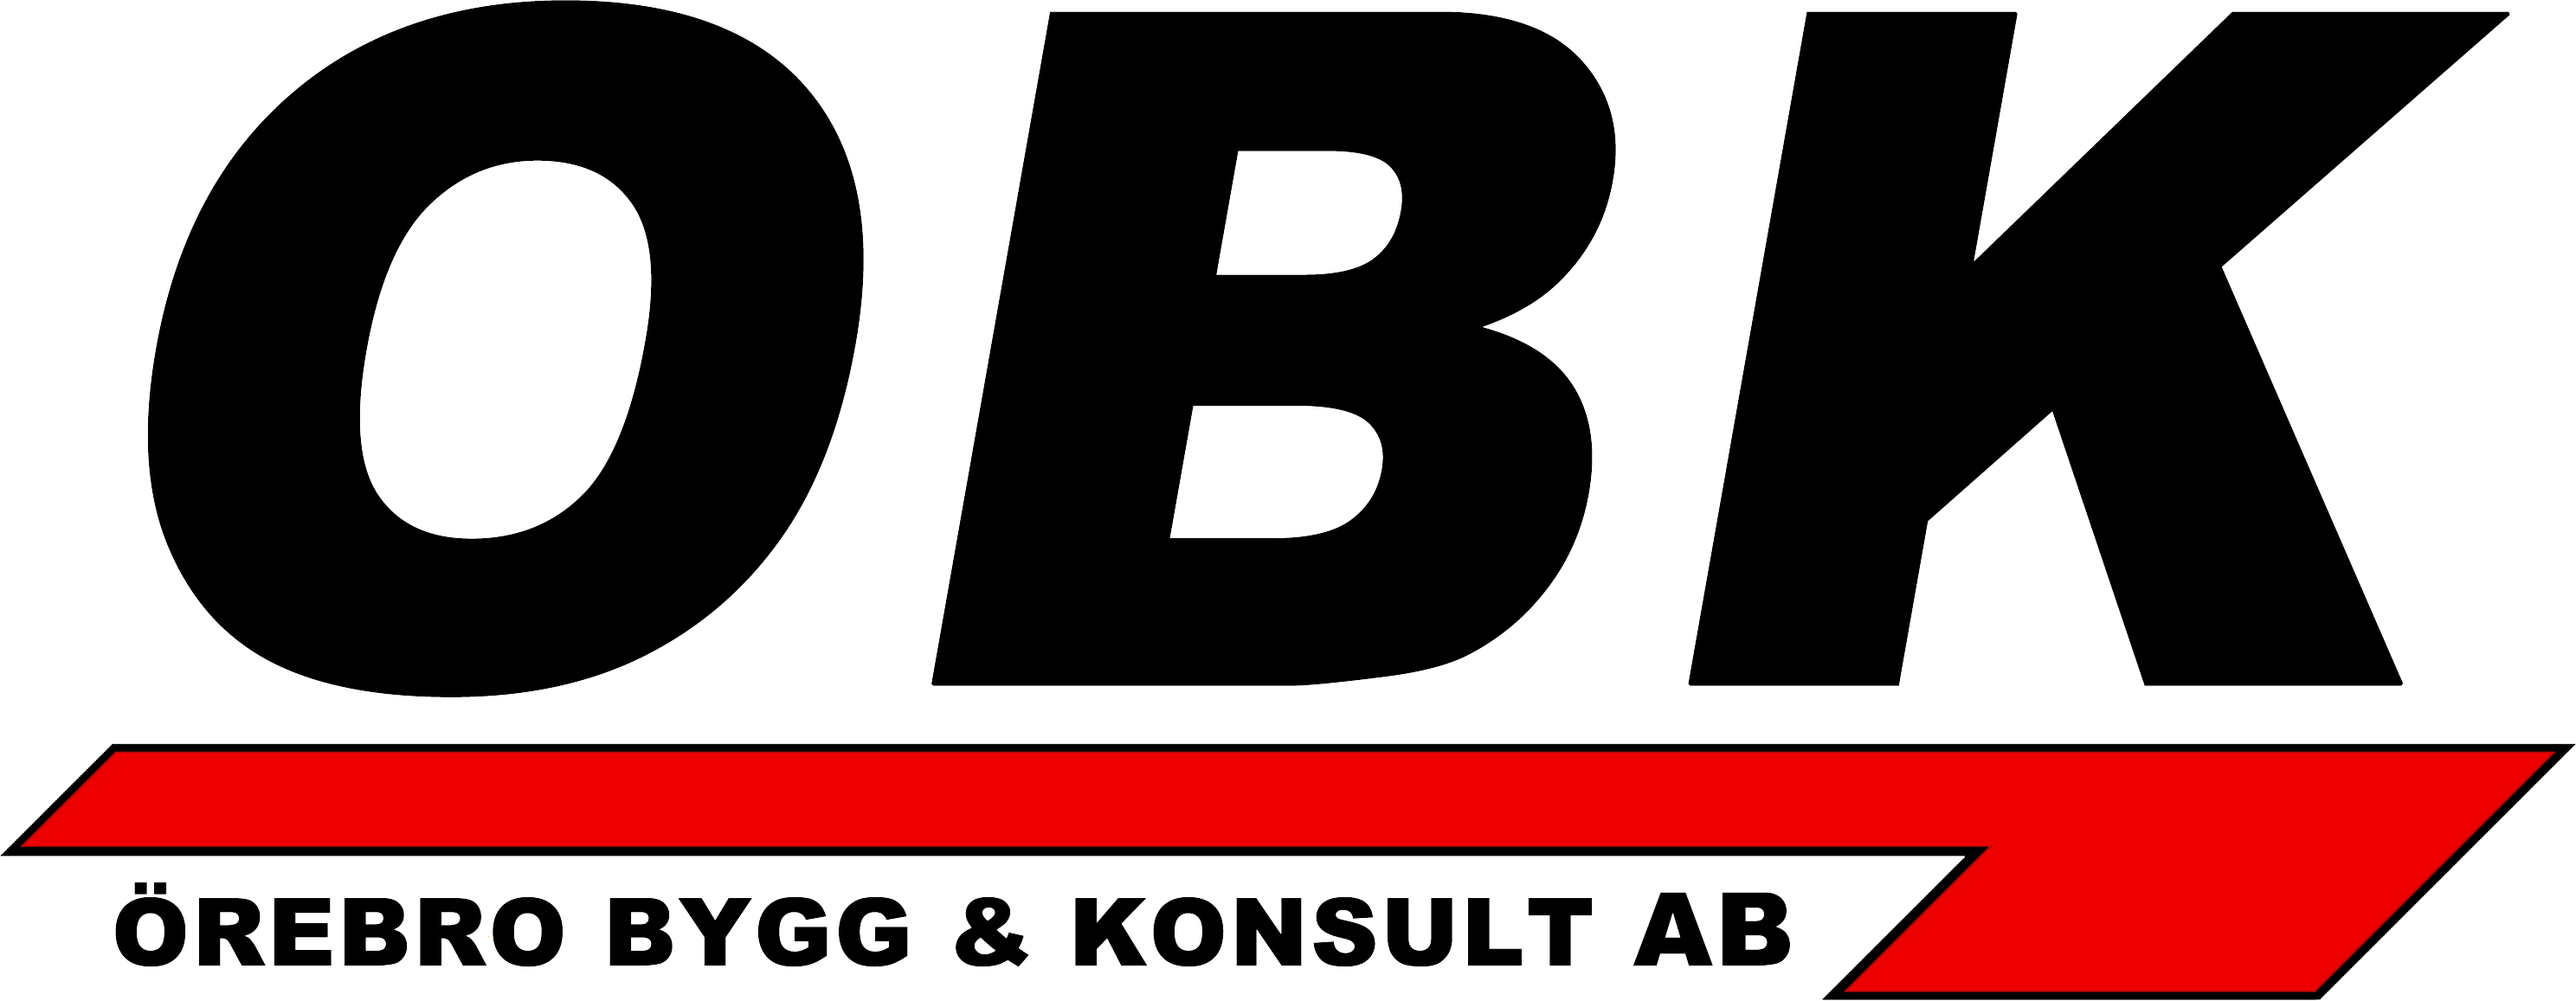
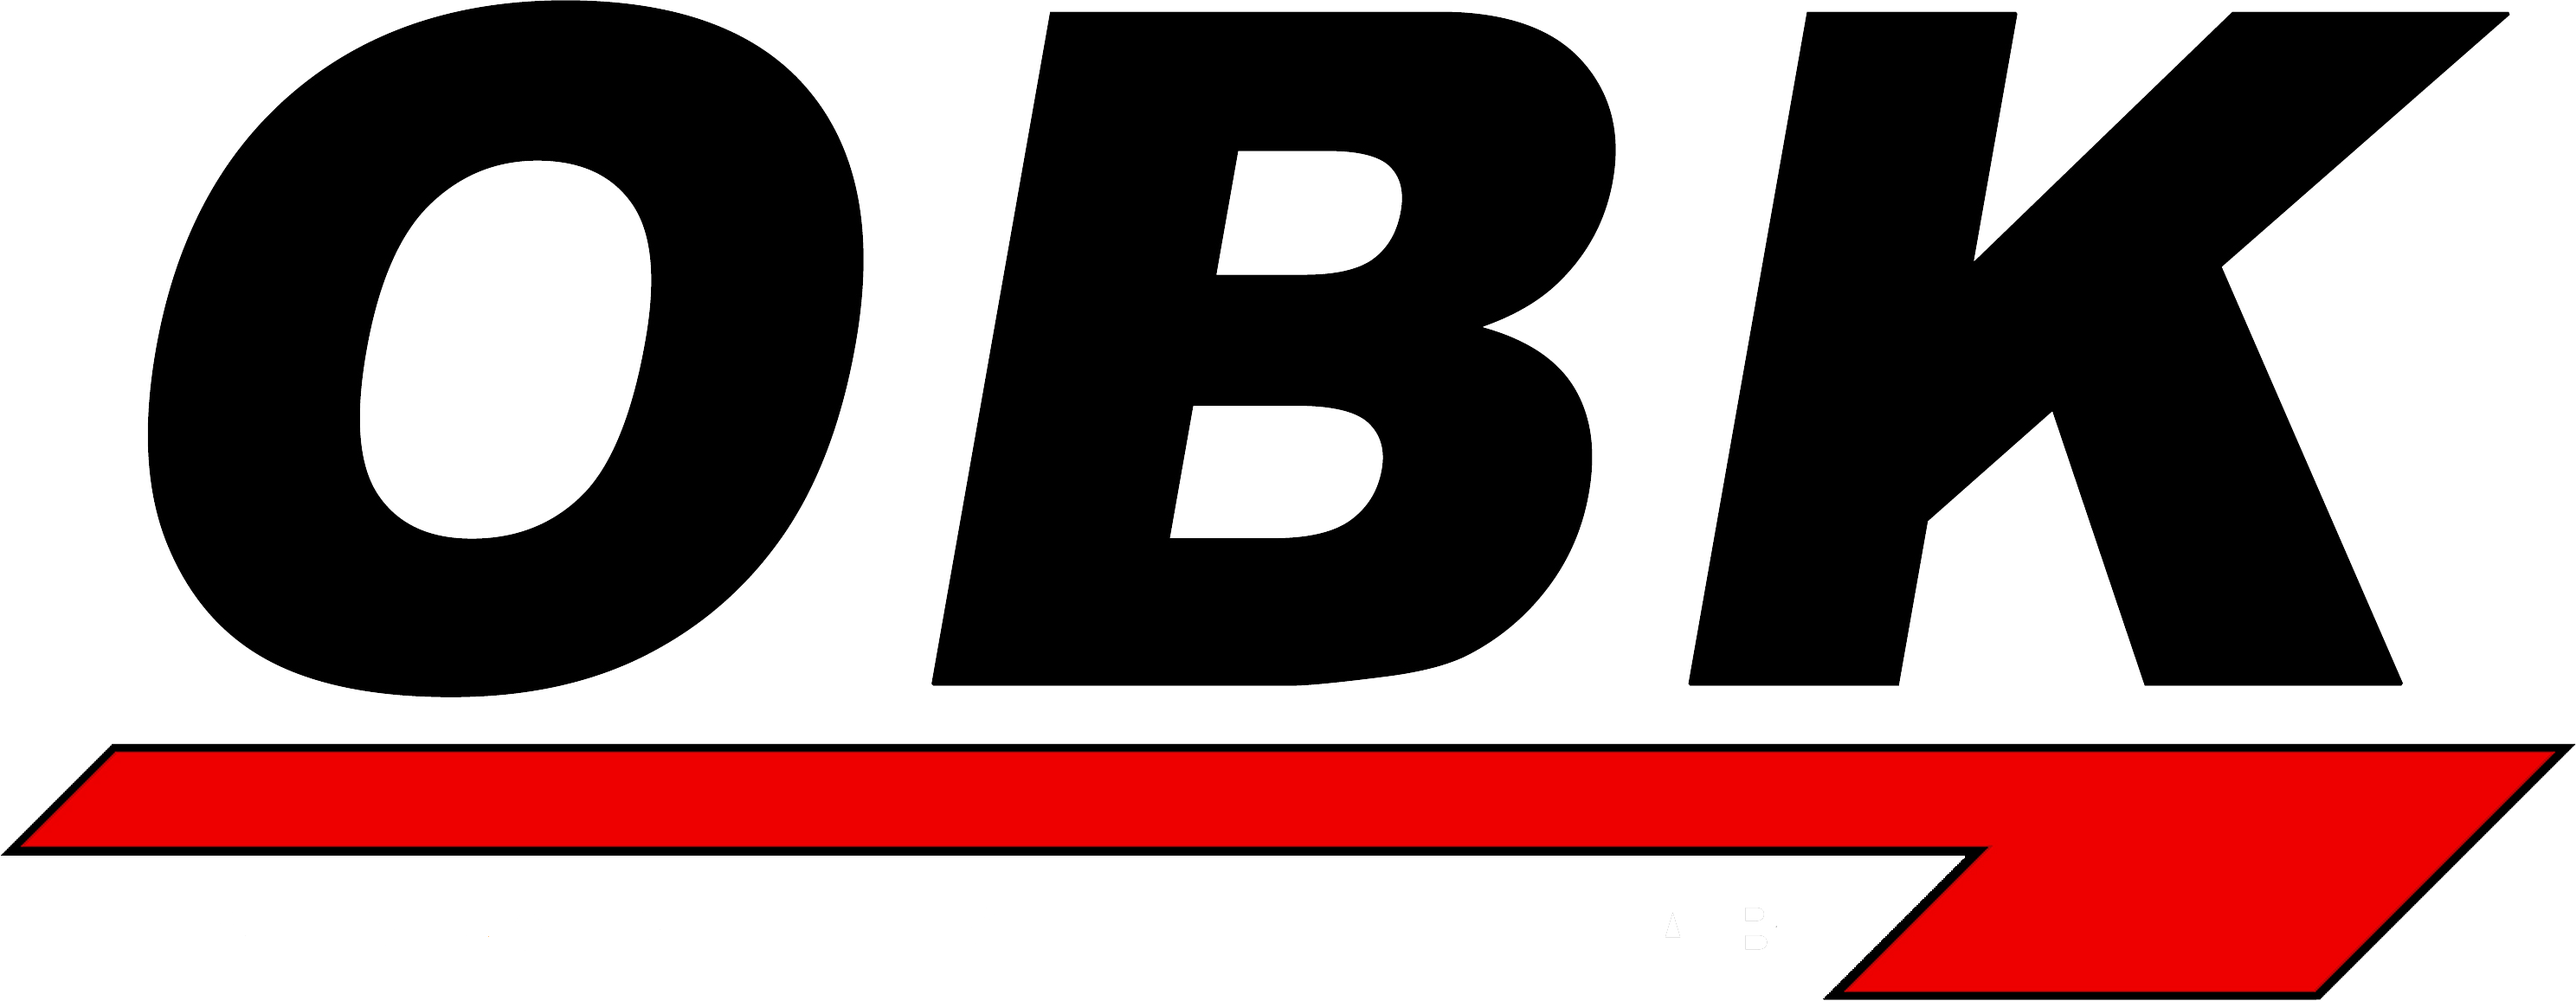
update

Changed region(s): [[0.0312, 0.8712, 0.7188, 0.9646]]

diff --git a/obk/omoss.html b/obk/omoss.html
@@ -44,7 +44,7 @@ google.maps.event.addDomListener(window, 'load', initialize);
  <nav class="navbar navbar-default">
   <div class="container-fluid">
     <div class="navbar-header">
-      <a class="navbar-brand" href="index.html">OBK AB</a>
+      <a class="navbar-brand" href="index.html">OBK Sverige AB</a>
     </div>
     <ul class="nav navbar-nav">
       
@@ -70,15 +70,44 @@ google.maps.event.addDomListener(window, 'load', initialize);
         
         
         
-        <p class="serif">OBK är ett bolag som startades 2011 med konsultverksamhet inom byggbranschen som bas och som även utförde en del
-            byggentreprenader mot förtroendekunder. Där    utav namnet Örebro Bygg & Konsult AB (OBK). Bolaget har sitt säte i Örebro, 
-            och verksamhetsområdet är Mellansverige. 
-        Våren 2015 skedde en stor förändring av bolagets inriktning mot framtiden. 
-            De två tidigare ägarna sålde bolaget till fem nya medarbetare som valde att ändra huvudinriktning från konsult till bygg. 
-            Konsultdelen finns fortfarande kvar och drivs av en av de tidigare ägarna och berör främst kostnadskalkyler i tidiga skeden. 
-            Efter övertagandet är det dock byggdelen av bolaget som är den dominerande delen. 
-            OBK har sedan övertagandet 2015 vuxit starkt och har idag cirka 35-40 anställda. 
-            OBK:s medarbetare har lång erfarenhet från både tunga industrijobb och stora husbyggnationer.
+        <p class="serif">OBK Sverige AB är ett bolag som startades 2011 och som sedan dess utfört byggentreprenader i Mellansverige & Mälardalen. Till en början ägdes bolaget av två delägare som ville driva bolaget i mindre skala och med inriktning mot förtroendekunder.
+2015 skedde en stor förändring av bolaget. De två tidigare delägarna valde att sälja bolaget till fem nya delägare som samtliga har en lång bakgrund i bygg & anläggningsbranschen.
+ </p>
+            <p class="serif">
+Bland de tidigare personliga referenserna hos de nya delägarna kan bland annat nämnas:<br>
+Nybyggnation av Universitet 9.000 m².<br>
+Nybyggnation av vård & omsorgsboende 15.000 m².<br>
+Nybyggnation hyresrätter i centrala lägen 13.000 m².<br>
+Ombyggnation hyresrätter i centrala lägen 2.500 m².<br>
+Nybyggnation av lager & kontor 12.000 m²<br>
+Om och tillbyggnad kraftvärmeverk i 6 år.<br>
+Om och tillbyggnad av pappersbruk i 20 år.<br>
+Järnvägsbroar & motorvägsbroar.<br>
+Återuppbyggnad av Sågverk. <br>
+Servicearbeten åt förtroendekunder.<br>
+           </p>
+
+                <p class="serif">
+OBK Sverige AB har sedan övertagandet 2015 vuxit starkt och har idag cirka 35-40 anställda. OBK:s medarbetare har lång erfarenhet från både tunga industrijobb och stora husbyggnationer. De har fortsatt att inrikta sig mot förtroendekunder och har även utökat den delen ytterligare.
+ </p>
+            
+<p class="serif">           
+Sedan övertagandet har OBK Sverige bland annat byggt och bygger:<br>
+Nybyggnation av CMTP-massafabrik i Rockhammar.<br>
+Nybyggnation av 63 studentbostäder.<br>
+Om och tillbyggnad av pappersbruk.<br>
+Om och tillbyggnad av kraftvärmeverk.<br>
+Ombyggnation/tillbyggnad åt tillverkningsindustrin.<br>
+Ombyggnation av skolor åt kommunala beställare.<br>
+Ombyggnation av badhus till idrottshallar.<br>
+Nybyggnad av lagerbyggnad & kontor.<br>
+Servicejobb åt förtroendekunder.<br>
+Flera stora betongjobb.<br>
+Betongplattor åt industrin.<br>
+    </p>  
+
+    <p class="serif">
+Välkommen till OBK Sverige AB – Din bygg & anläggningspartner i Mälardalen!
         </p>
             </div>
             
@@ -106,7 +135,7 @@ google.maps.event.addDomListener(window, 'load', initialize);
       </div>
      
 <footer>
-			<p class="serif">Copyright &copy; OBK AB.</p>
+			<p class="serif">OBK Sverige AB, Virkesvägen 8, 703 63 Örebro.</p>
 		</footer>
 
  </body>

diff --git a/obk/kontakt.html b/obk/kontakt.html
@@ -19,7 +19,7 @@
  <nav class="navbar navbar-default">
   <div class="container-fluid">
     <div class="navbar-header">
-      <a class="navbar-brand" href="index.html">OBK AB</a>
+      <a class="navbar-brand" href="index.html">OBK Sverige AB</a>
     </div>
     <ul class="nav navbar-nav">
       
@@ -44,7 +44,7 @@
   <p class="serif1">Kontor</p>
   <p class="serif2">Telefon & Mail</p>     
 <p id="tel">019 – 30 86 10</p>
-<p id="mail">info@orbk.se</p>
+<p id="mail">info@obksverige.se</p>
 <button class="contactButton">Kontakt</button>
 
 
@@ -62,7 +62,7 @@
   <p class="serif2">Susanne Bergdahl.</p>     
 <p id="tel">019 – 30 86 10</p>
 <p id="tel">072 – 738 40 75</p>
-<p id="mail">Susanne@orbk.se</p>               
+<p id="mail">Susanne@obksverige.se</p>               
 <button class="contactButton">Kontakt</button>
 
 
@@ -76,7 +76,7 @@
   <p class="serif1">VD/Projektledare.</p>
   <p class="serif2">Johan Åhlund.</p>     
 <p id="tel">072 - 738 40 72</p>
-<p id="mail">johan@orbk.se</p>
+<p id="mail">johan@obksverige.se</p>
 <button class="contactButton">Kontakt</button>
 
  </div>
@@ -87,7 +87,7 @@
   <p class="serif1">Projektledare.</p>
   <p class="serif2">Erik Göthlin.</p>     
 <p id="tel">072 – 738 40 70</p>
-<p id="mail">erik@orbk.se</p>
+<p id="mail">erik@obksverige.se</p>
 <button class="contactButton">Kontakt</button>
 
 
@@ -99,7 +99,7 @@
   <p class="serif1">Platschef.</p>
   <p class="serif2">Henric Eklöw.</p>     
 <p id="tel">072 – 738 40 71</p>
-<p id="mail">henric@orbk.se</p>
+<p id="mail">henric@obksverige.se</p>
 <button class="contactButton">Kontakt</button>
 
 
@@ -113,7 +113,7 @@
   <p class="serif1">Platschef.</p>
   <p class="serif2">Bengt Åhlund.</p>     
 <p id="tel">072 – 738 40 73</p>
-<p id="mail">bengt@orbk.se</p>
+<p id="mail">bengt@obksverige.se</p>
 <button class="contactButton">Kontakt</button>
 
 
@@ -129,7 +129,7 @@
   <p class="serif1">Platschef.</p>
   <p class="serif2">Karl Brugge.</p>     
 <p id="tel">072 – 738 40 74</p>
-<p id="mail">karl@orbk.se</p>
+<p id="mail">karl@obksverige.se</p>
 <button class="contactButton">Kontakt</button>
 
 
@@ -143,7 +143,7 @@
   <p class="serif1">Platschef.</p>
   <p class="serif2">Joel Ringnader.</p>     
 <p id="tel">072 – 738 40 77</p>
-<p id="mail">joel@orbk.se</p>
+<p id="mail">joel@obksverige.se</p>
 <button class="contactButton">Kontakt</button>
 
 
@@ -157,7 +157,7 @@
   <p class="serif1">Platschef.</p>
   <p class="serif2">Alf Pettersson.</p>     
 <p id="tel">072-702 46 44</p>
-<p id="mail">alf@orbk.se</p>
+<p id="mail">alf@obksverige.se</p>
 <button class="contactButton">Kontakt</button>
 
 
@@ -171,7 +171,7 @@
 <p class="serif1">KMA/Arbetsledare.</p>
 <p class="serif2">Philip Axelsson.</p>     
 <p id="tel">072 – 738 40 76</p>
-<p id="mail">philip@orbk.se</p>
+<p id="mail">philip@obksverige.se</p>
 <button class="contactButton">Kontakt</button>
 
 
@@ -185,7 +185,7 @@
   <p class="serif3">Entreprenadingenjör.</p>
   <p class="serif3">Marie Pontén.</p>     
 <p id="tel">072 – 738 40 78</p>
-<p id="mail">marie@orbk.se</p>
+<p id="mail">marie@obksverige.se</p>
 <button class="contactButton">Kontakt</button>
 
 
@@ -199,7 +199,7 @@
 <p class="serif1">Kalkyl.</p>
 <p class="serif2">Sören Göthlin.</p>     
 <p id="tel">070 – 247 91 71</p>
-<p id="mail">soren@orbk.se</p>
+<p id="mail">soren@obksverige.se</p>
     
 <button class="contactButton">Kontakt</button>
 
@@ -229,7 +229,7 @@ $('.contactButton').on('click', function(){
       </div>
      
 <footer>
-			<p class="serif">Copyright &copy; OBK AB.</p>
+			<p class="serif">OBK Sverige AB, Virkesvägen 8, 703 63 Örebro.</p>
 		</footer>
 
  </body>

diff --git a/obk/obk.js b/obk/obk.js
@@ -1,0 +1,46 @@
+(function(d, s, id) {
+  var js, fjs = d.getElementsByTagName(s)[0];
+  if (d.getElementById(id)) return;
+  js = d.createElement(s); js.id = id;
+  js.src = "//connect.facebook.net/sv_SE/sdk.js#xfbml=1&version=v2.5";
+  fjs.parentNode.insertBefore(js, fjs);
+}(document, 'script', 'facebook-jssdk'));
+
+
+
+var myIndex = 0;
+carousel();
+
+function carousel() {
+    var i;
+    var x = document.getElementsByClassName("mySlides");
+    for (i = 0; i < x.length; i++) {
+       x[i].style.display = "none";  
+    }
+    myIndex++;
+    if (myIndex > x.length) {myIndex = 1}    
+    x[myIndex-1].style.display = "block";  
+    setTimeout(carousel, 4000); // Change image every 2 seconds
+}
+
+
+var myCenter=new google.maps.LatLng(59.289797,15.214732);
+
+function initialize()
+{
+var mapProp = {
+  center:myCenter,
+  zoom:15,
+  mapTypeId:google.maps.MapTypeId.ROADMAP
+  };
+
+var map=new google.maps.Map(document.getElementById("googleMap"),mapProp);
+
+var marker=new google.maps.Marker({
+  position:myCenter,
+  });
+
+marker.setMap(map);
+}
+
+google.maps.event.addDomListener(window, 'load', initialize);

diff --git a/obk/index.html b/obk/index.html
@@ -28,7 +28,7 @@
  <nav class="navbar navbar-default">
   <div class="container-fluid">
     <div class="navbar-header">
-      <a class="navbar-brand"  href="index.html">OBK AB</a>
+      <a class="navbar-brand"  href="index.html">OBK Sverige AB</a>
     </div>
     <ul class="nav navbar-nav">
       
@@ -48,7 +48,7 @@
         
     <div class="col-xs-12 col-sm-8 col-lg-10 text-center"> 
         
-          <h1>OBK – Örebro Bygg & Konsult AB.</h1>
+          <h1>OBK Sverige AB.</h1>
           <h3>Din Byggentreprenör i Mellansverige.</h3>
           <h3>Vi utför entreprenader inom Hus & industribyggnation. </h3>
         
@@ -100,6 +100,6 @@ function carousel() {
      
 
 <footer>
-			<p class="serif">Copyright &copy; OBK AB.</p>
+			<p class="serif">OBK Sverige AB, Virkesvägen 8, 703 63 Örebro.</p>
 		</footer>
  </body>

diff --git a/obk/projekt.html b/obk/projekt.html
@@ -29,7 +29,7 @@
  <nav class="navbar navbar-default">
   <div class="container-fluid">
     <div class="navbar-header">
-      <a class="navbar-brand" href="index.html">OBK AB</a>
+      <a class="navbar-brand" href="index.html">OBK Sverige AB</a>
     </div>
     <ul class="nav navbar-nav">
       
@@ -56,7 +56,7 @@
       </div>
      
 <footer>
-			<p class="serif">Copyright &copy; OBK AB.</p>
+			<p class="serif">OBK Sverige AB, Virkesvägen 8, 703 63 Örebro.</p>
 		</footer>
 
  </body>
